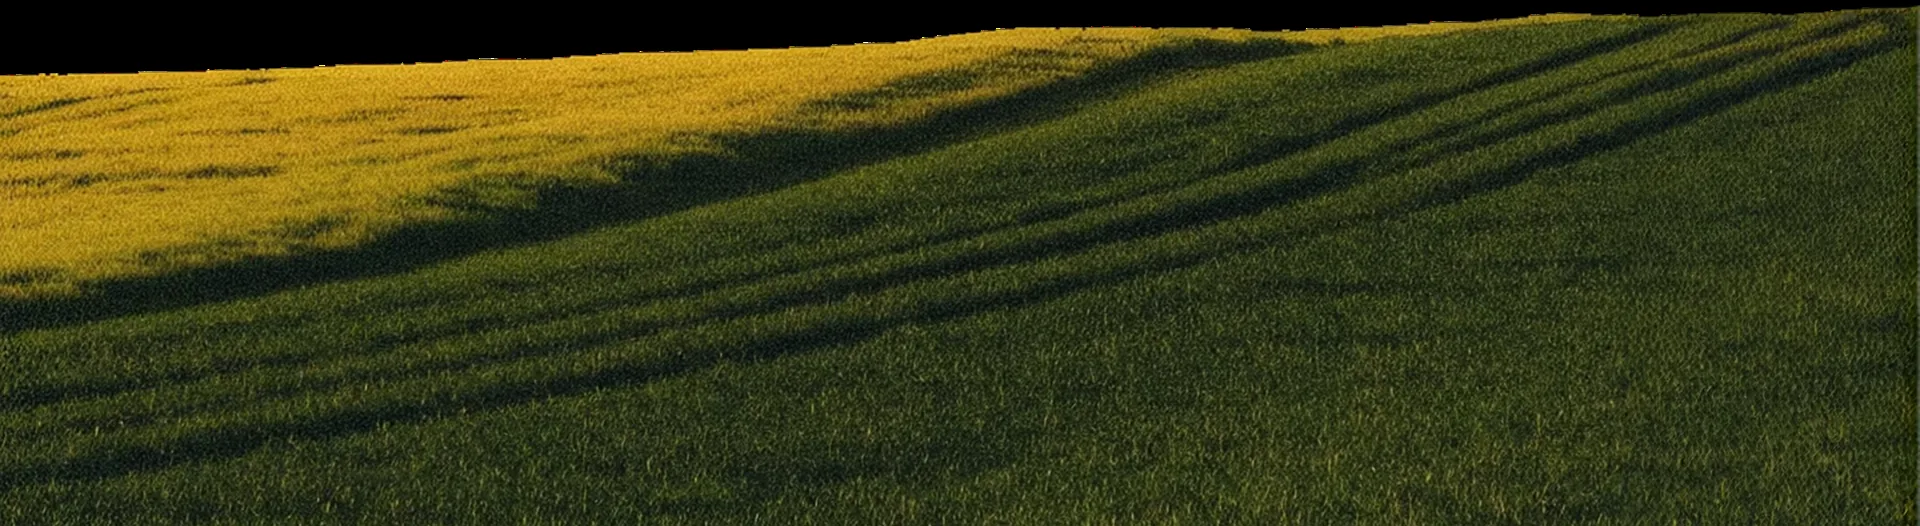
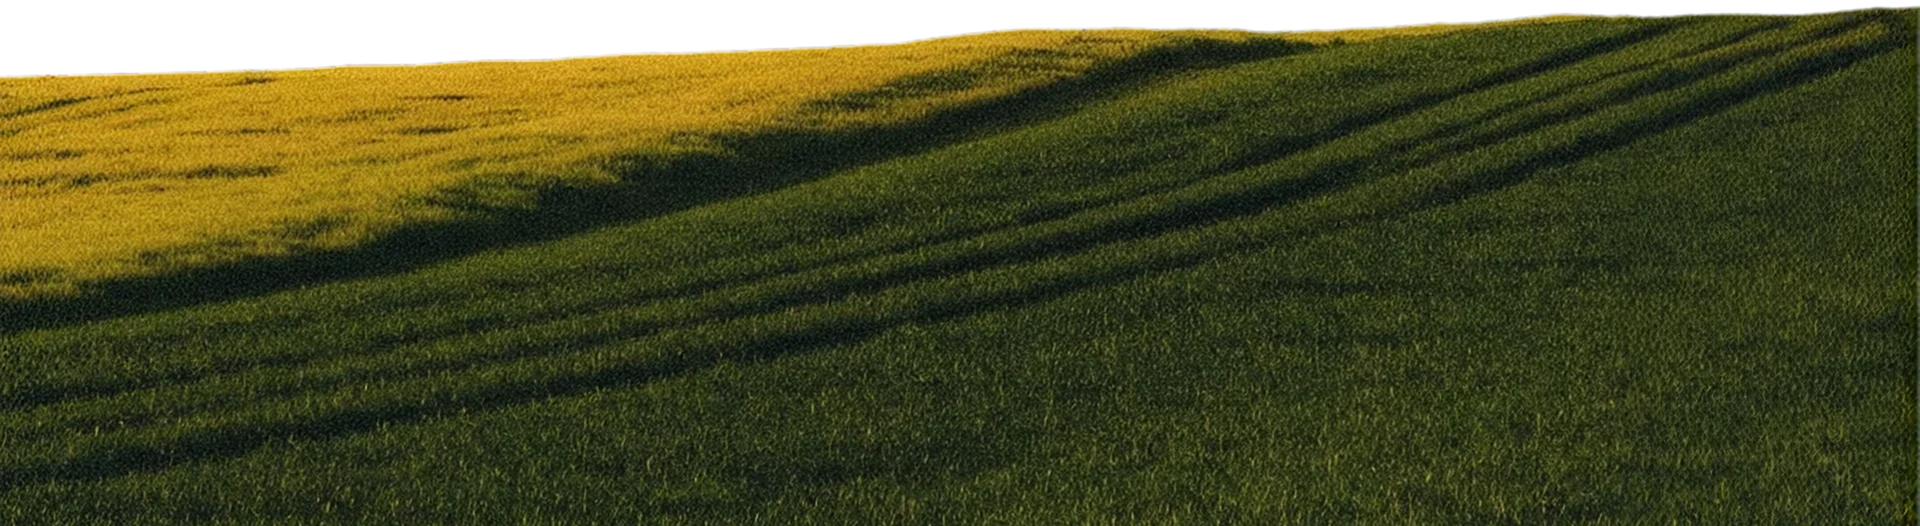
Corrige a transparencia dos WebP: reconversao em RGBA e relvado de novo em WebP
Claude-Session: https://claude.ai/code/session_01N2bA1QR75soKpN5Ehzm6Jn

Changed region(s): [[0.0, 0.0, 1.0, 0.1521]]

diff --git a/index.html b/index.html
@@ -11,7 +11,7 @@
 <link rel="preconnect" href="https://fonts.gstatic.com" crossorigin>
 <link href="https://fonts.googleapis.com/css2?family=DotGothic16&family=Handjet:ELGR,ELSH,wght@1,2,100..900&display=swap" rel="stylesheet">
 
-<link rel="stylesheet" href="css/style.css?v=202609021806">
+<link rel="stylesheet" href="css/style.css?v=202609021809">
 </head>
 <body>
 
@@ -205,12 +205,12 @@
 <!-- relvado fixo no fundo do ecrã: só o topo aparece, e desce com o utilizador
      sem se mover, até crescer mesmo antes da secção WORKS -->
 <div class="grassband" id="grassband" aria-hidden="true">
-  <div class="grassband__clip"><picture><source srcset="assets/img/relvado.png" type="image/png"><img src="assets/img/relvado.png" alt="" decoding="async"></picture></div>
+  <div class="grassband__clip"><picture><source srcset="assets/img/relvado.webp" type="image/webp"><img src="assets/img/relvado.png" alt="" decoding="async"></picture></div>
   <span class="pix pix--rider" style="--size:115.083; --color:#ffe57b">L</span>
 </div>
 
 <script src="https://cdnjs.cloudflare.com/ajax/libs/matter-js/0.20.0/matter.min.js" defer></script>
-<script src="js/pixel-anim.js?v=202609021806" defer></script>
-<script src="js/main.js?v=202609021806" defer></script>
+<script src="js/pixel-anim.js?v=202609021809" defer></script>
+<script src="js/main.js?v=202609021809" defer></script>
 </body>
 </html>
